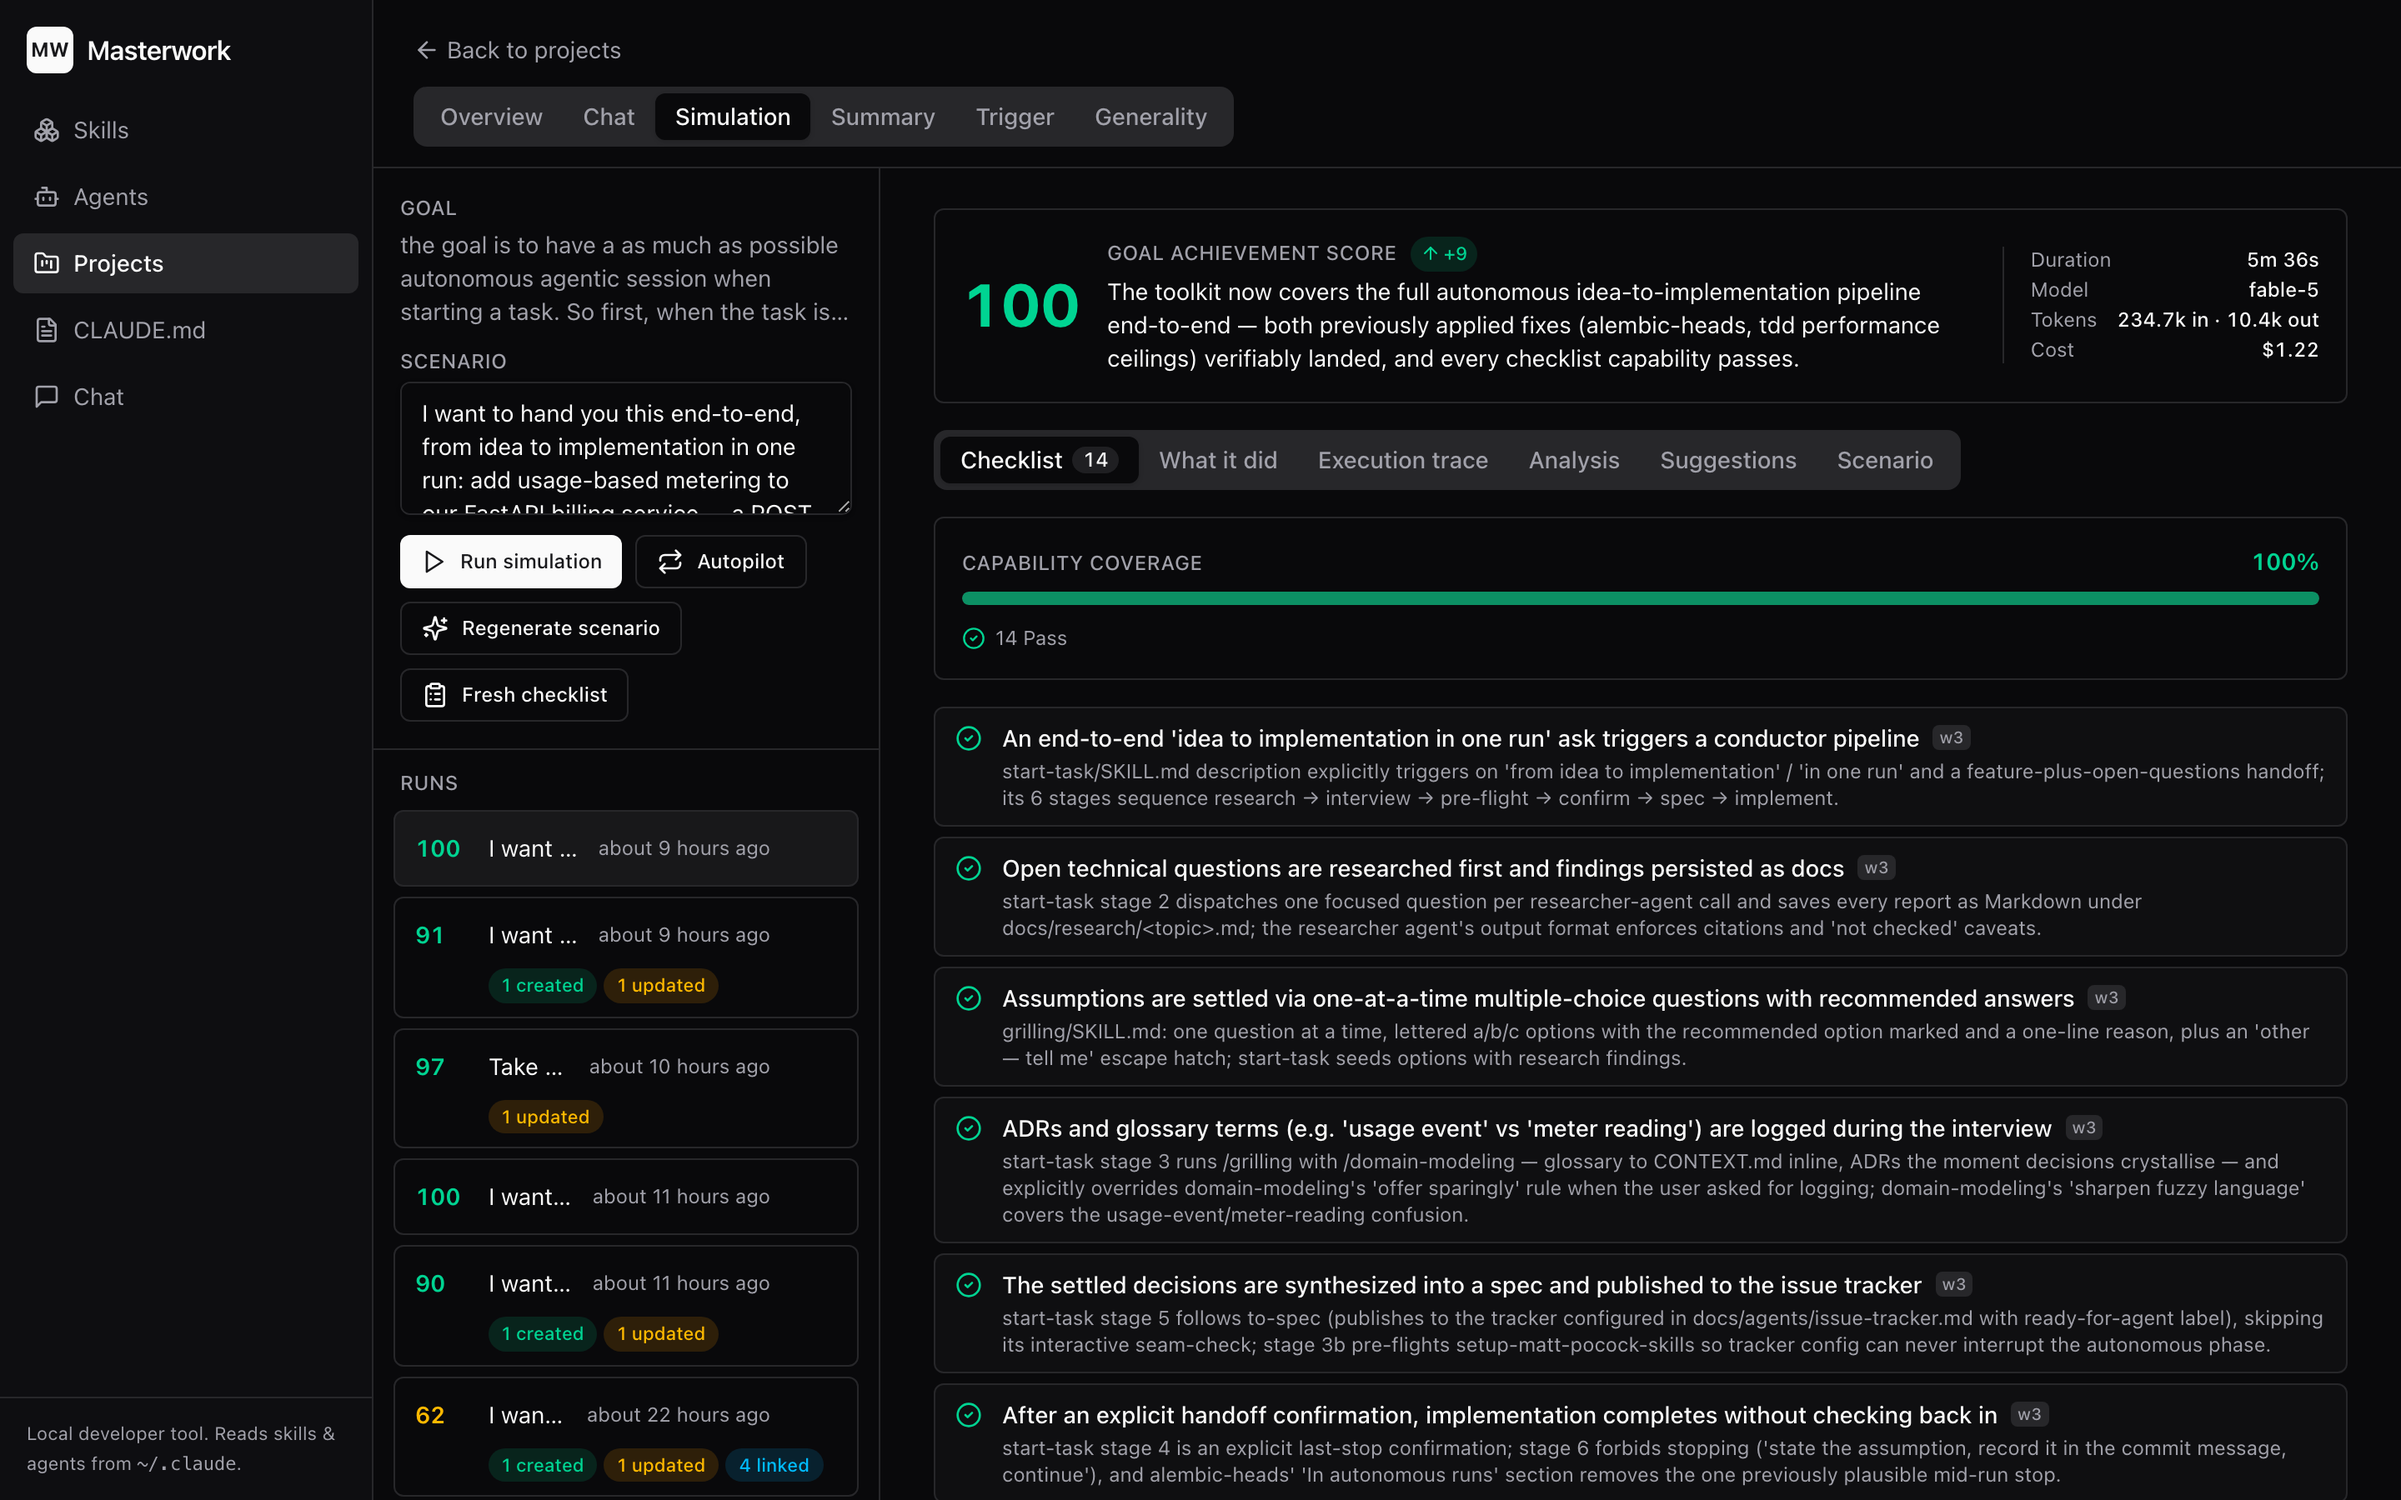
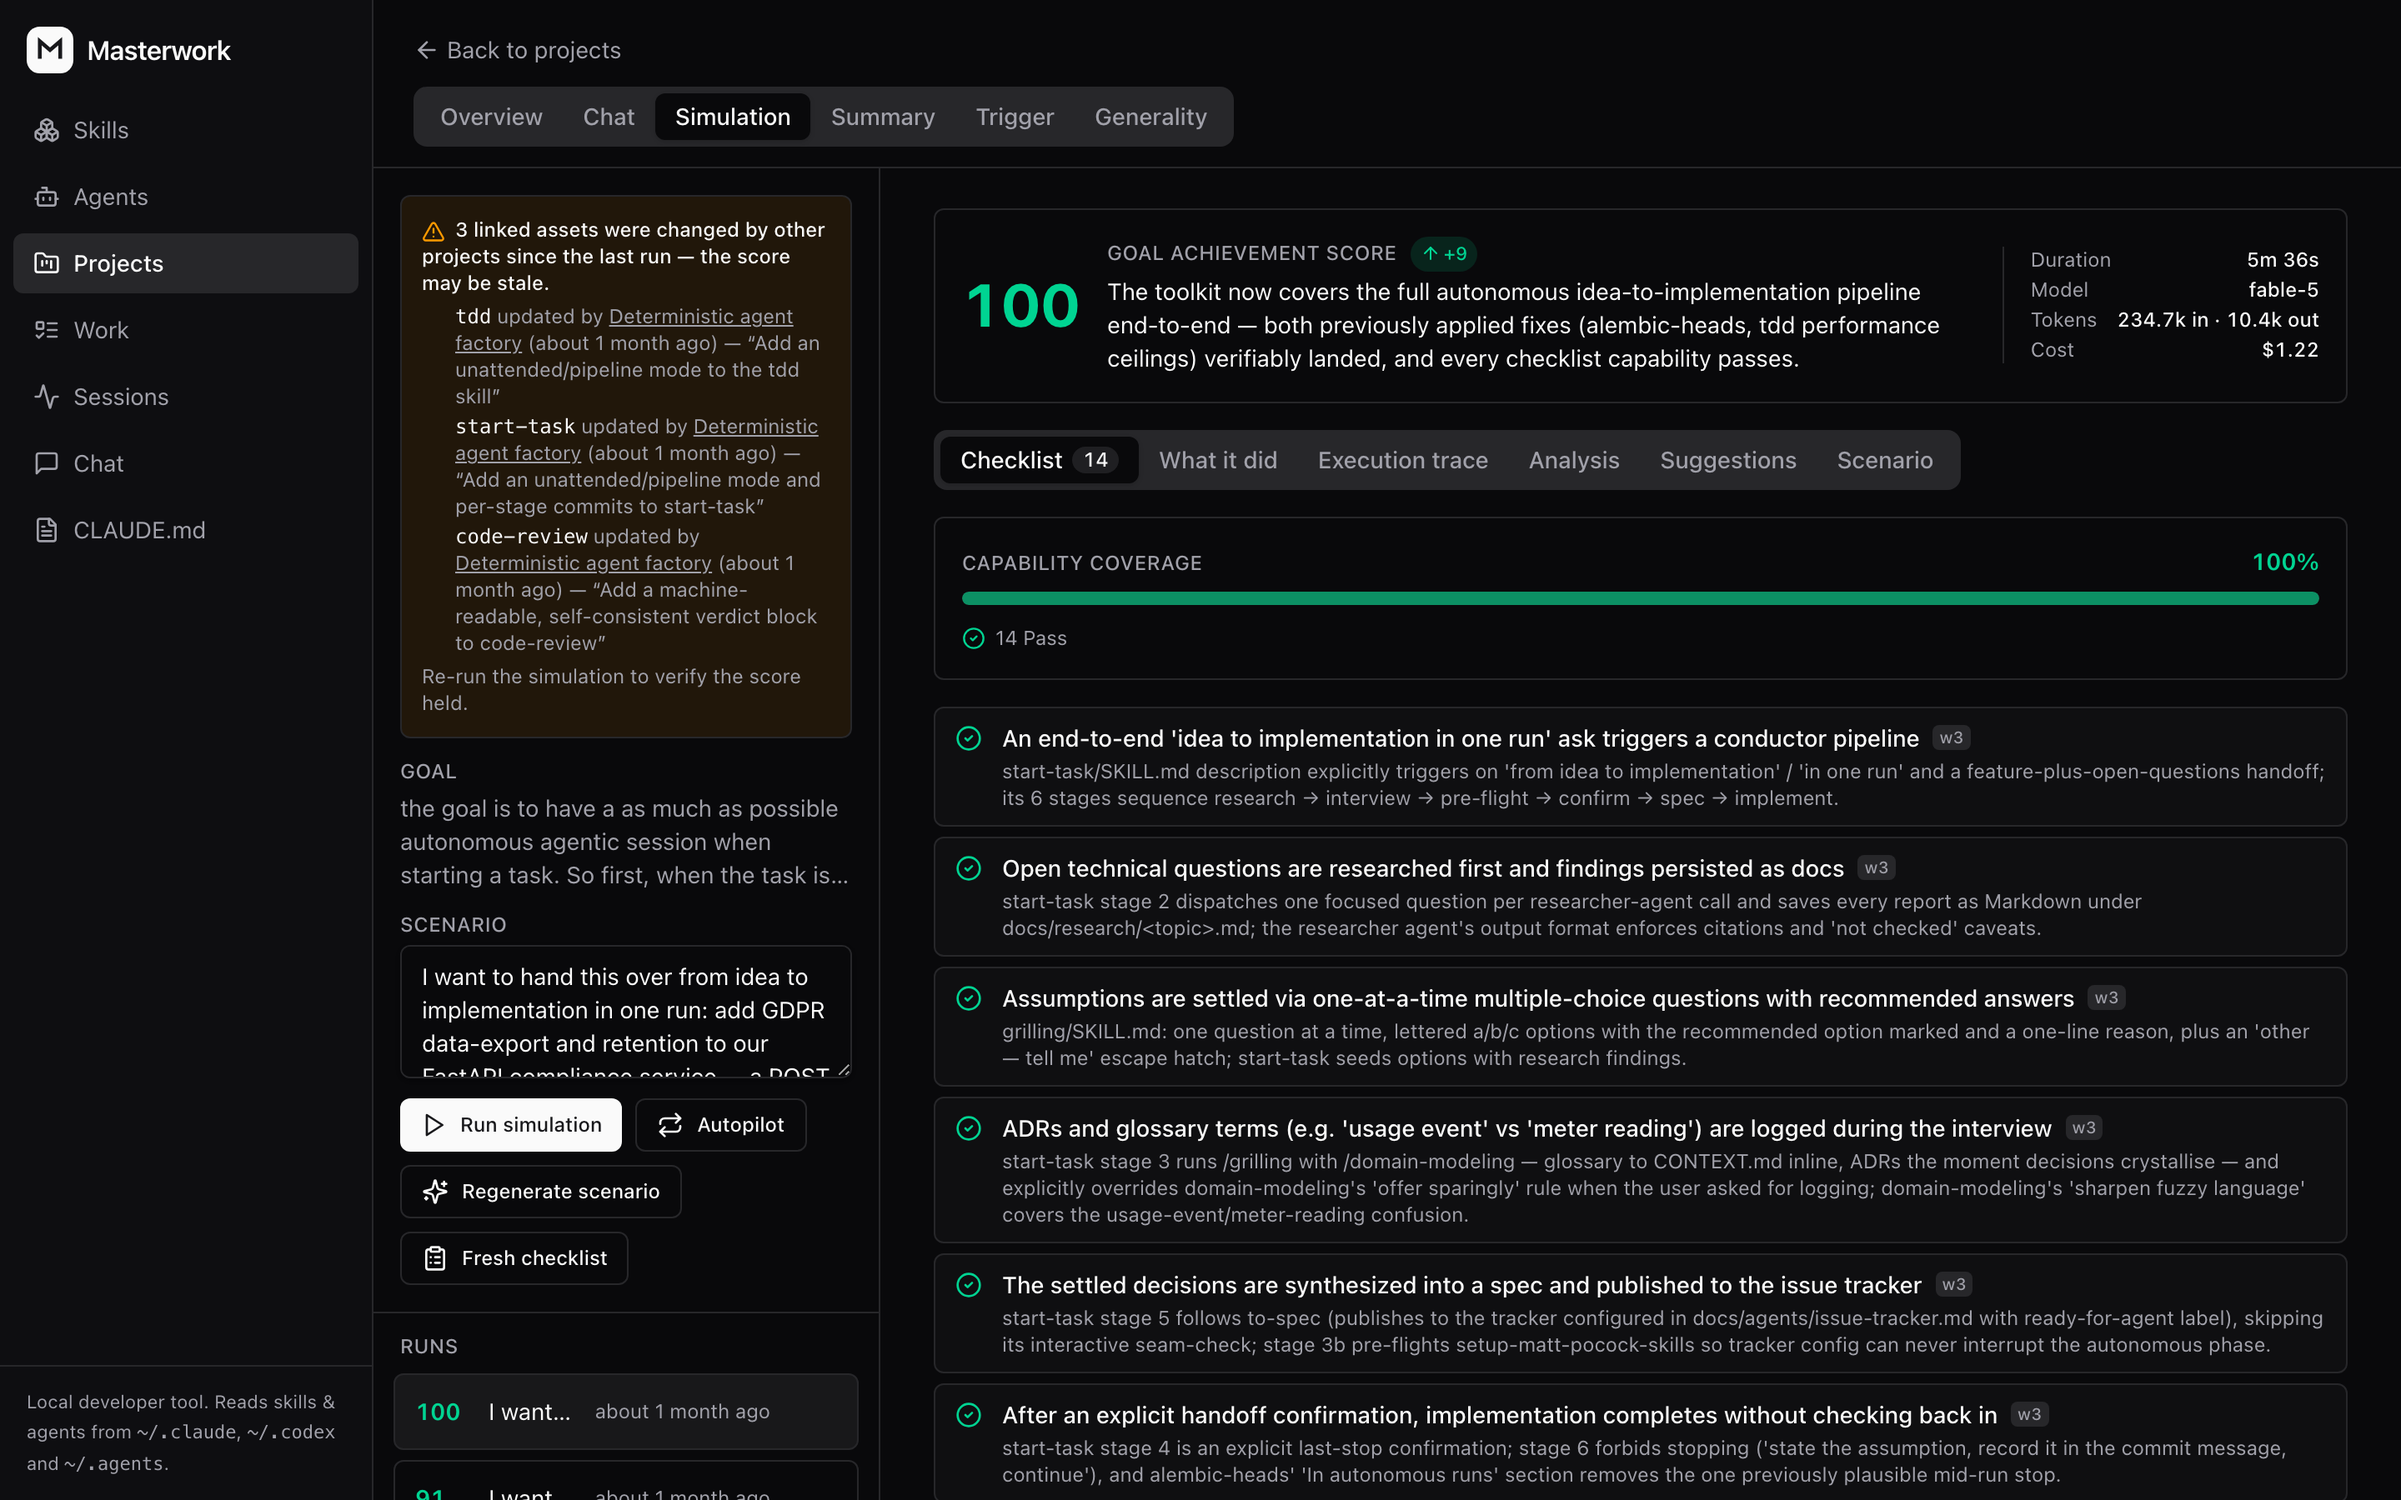
docs(readme): a screenshot per screen, not three of the same one
The three shots added earlier were all the Skills page. Projects, chat
proposals, a recorded session and the analytics tables now each get a
section and a picture, and Work gets a section without one — every real
row on that screen is client work, which is not going in a public repo.

The simulation hero is re-taken because it still showed the old logo and a
sidebar without Work or Sessions. The session shot has the machine-local
path hidden; nothing else is retouched.

diff --git a/README.md b/README.md
@@ -122,6 +122,33 @@ risk. Uninstall only removes what masterwork installed, never a skill you wrote.
 
 ![Catalog search results, each with its source and license](docs/images/catalog.png)
 
+## Projects
+
+A project is a goal plus the skills and agents that serve it. Masterwork writes a
+summary and a Mermaid flow of how they fit together, and simulates the whole set
+against the goal in one run — so "these twelve should take me from empty repo to
+deployed product" becomes a claim you can test rather than a hope.
+
+![A project's goal, its linked skills and agents, and the generated flow](docs/images/projects.png)
+
+## Refine by chat
+
+Describe the change you want; the assistant reads the file and answers with a
+proposal — one diff per file, with Accept and Reject under it. Its tools are
+read-only, so nothing lands until you accept, and what you accept is committed as
+a git snapshot in the folder it edited.
+
+![Chat answering with a proposed edit to a skill, pending accept or reject](docs/images/chat.png)
+
+## Work
+
+The **Work** screen puts your Azure DevOps backlog next to the pull requests
+waiting on you, read-only — masterwork never writes back. A PR's unresolved review
+comments can be handed to a fresh coding session in the repo they belong to, with
+the comments quoted into the prompt and a rule that it may not push.
+
+*No screenshot for this one: the only real data on that screen is client work.*
+
 ## Session recording
 
 The **Sessions** screen is empty until your coding agent tells masterwork that a
@@ -144,6 +171,14 @@ own machine. Prefer the terminal?
 ```bash
 cd backend && uv run python -m app.observability.cli connect
 ```
+
+![One recorded session: cost, tokens, how the context grew, and a waterfall of its turns](docs/images/session.png)
+
+Across runs, the **Analytics** tab totals one population four ways — the gates
+that failed, the roles that ran, the models behind them, and every run over time.
+Which model actually gets its work accepted is a number here, not a hunch.
+
+![Analytics: acceptance, corrections and cost per model, and every run over time](docs/images/analytics.png)
 
 Claude Code is the only agent wired up today. `SKILL.md` is an open standard and
 so is this: an agent that can run a command on session events is an
